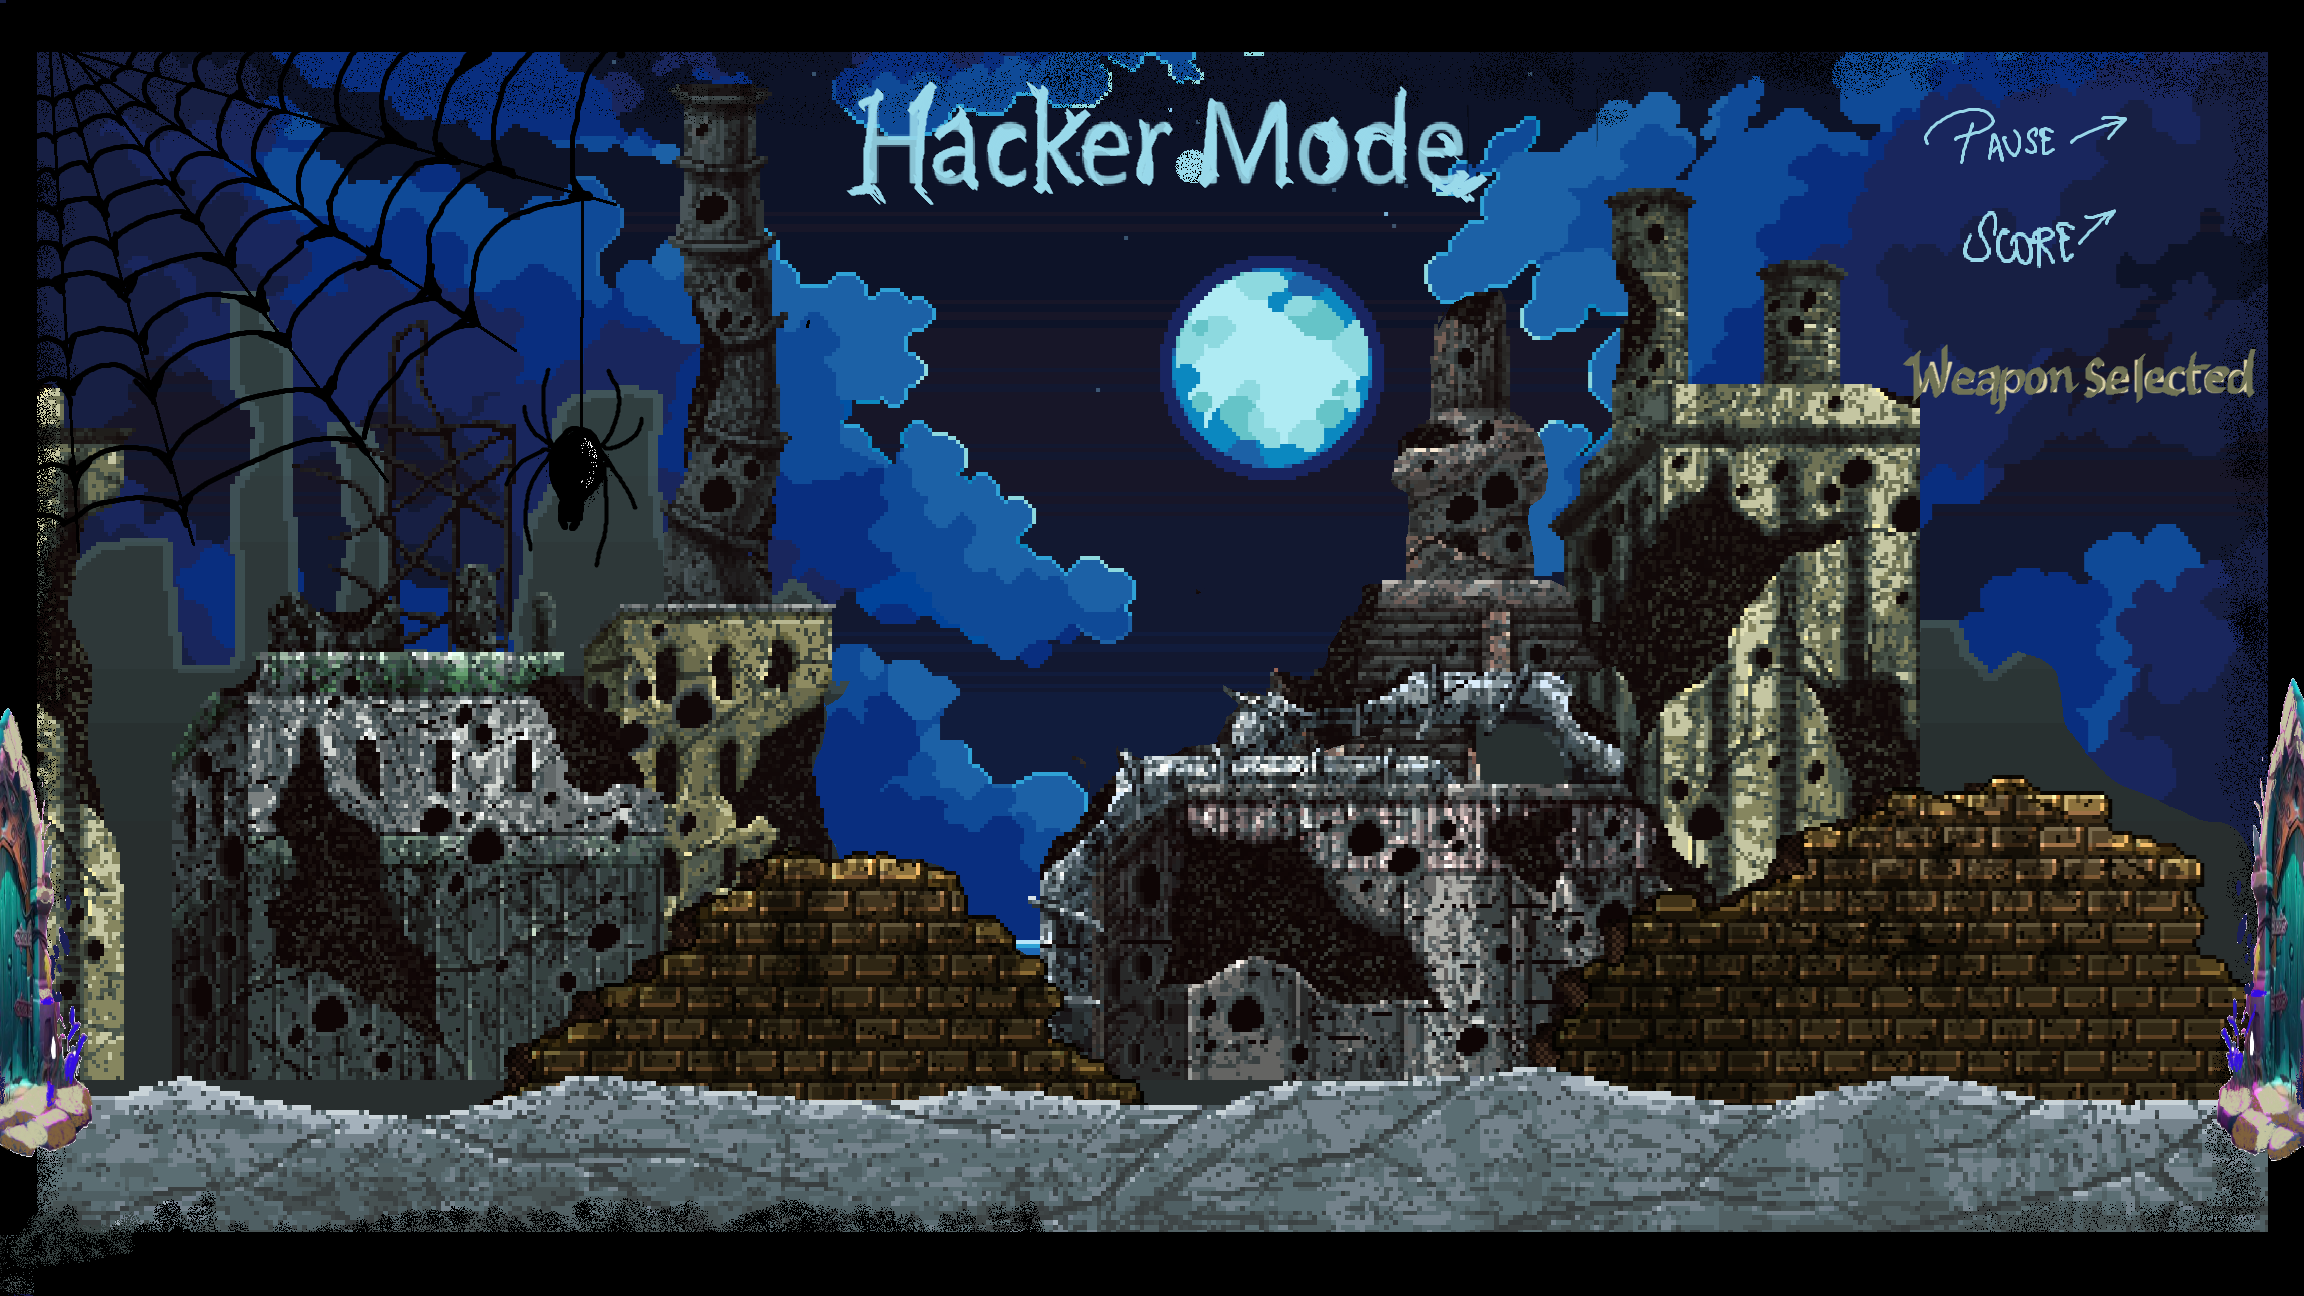
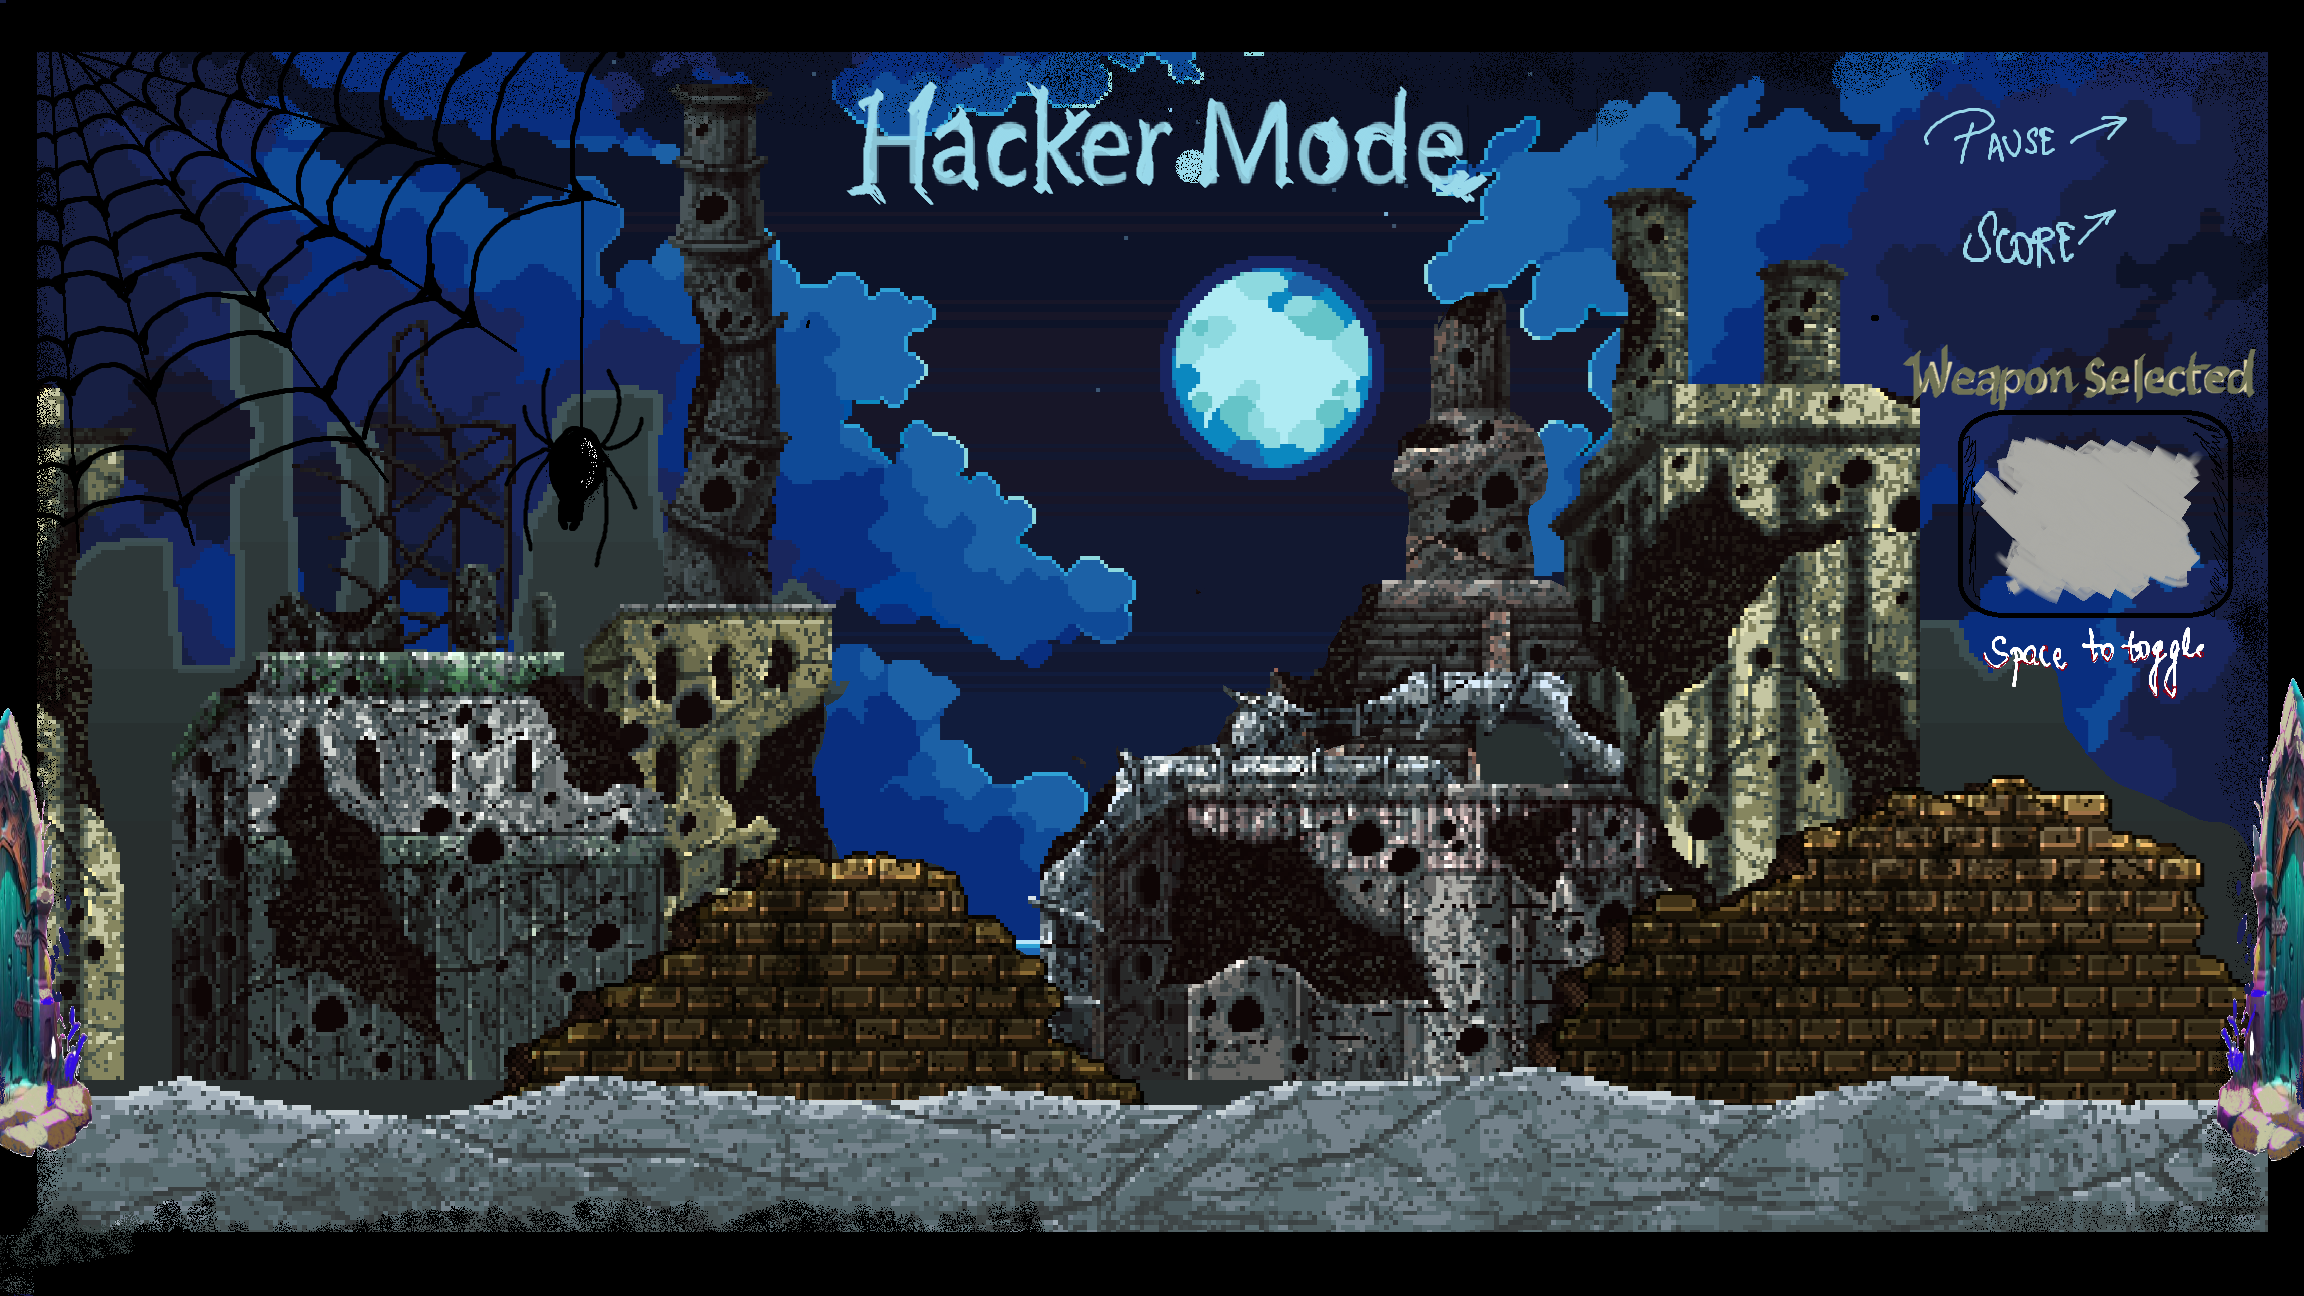
Commit changes

Changed region(s): [[0.8438, 0.3086, 0.9688, 0.5247]]

diff --git a/Hacker mode/canvas.js b/Hacker mode/canvas.js
@@ -2,6 +2,12 @@ var canvas=document.getElementById('canvas');
 canvas.height=document.documentElement.clientHeight;
 canvas.width=document.documentElement.clientWidth;
 c=canvas.getContext('2d');
+
+var canvas2=document.getElementById('canvas2');
+canvas2.height=document.documentElement.clientHeight;
+canvas2.width=document.documentElement.clientWidth;
+c2=canvas2.getContext('2d');
+
 var hero;
 var zombies;var zombie1;
 var keys_pressed;
@@ -24,6 +30,10 @@ var shield_coordinates;
 const backgroundImage = new Image();
 var is_game_over=false;
 var toggle_weapon;
+var gunImage;
+var gun;
+var mouse1;
+var weapon_selected;
 
 function initializeLocalStorage() {
     if (!localStorage.getItem('score1')) {
@@ -147,6 +157,18 @@ function check_bullet_zombie_collision(bullet,zombie){
 
 
 function init(){
+    weapon_selected=new Image();
+    mouse1 = {
+        x: 0,
+        y: 0
+    };
+    gunImage=new Image();
+    gun = {
+      x: canvas2.width / 2,
+       y: canvas2.height / 2,
+       width: 72,
+       height: 73 
+    };
     blocks=[];
     pellets=[];
     bullets=[];
@@ -272,7 +294,6 @@ class Blocks{
     create(){
         this.image.src='../images/block.png';
         c.drawImage(this.image,0,0,249,267,this.coordinate.x,this.coordinate.y,this.width,this.height);
-        c.strokeRect(this.coordinate.x,this.coordinate.y,this.width,this.height);
     }
     translate(){
             var j=check_below(this,'block');
@@ -296,8 +317,8 @@ class Pellet{
     constructor(){
         this.radius=10;
         this.coordinate={
-            x:hero.coordinate.x+(hero.width-this.radius*2)/2,
-            y:hero.coordinate.y+(hero.height-this.radius*2)/2
+            x:gun.x,
+            y:gun.y
         }
         this.velocity={
             x:0,
@@ -734,13 +755,17 @@ window.addEventListener('keyup',({keyCode})=>{
         }
         case 32:{
             console.log('toggle weapon');
-            if (toggle_weapon=='bomb'){toggle_weapon='ice_gun'}
-            else if (toggle_weapon=='ice_gun'){toggle_weapon='bomb';}
+            if (toggle_weapon=='bomb'){toggle_weapon='ice_gun';document.getElementById('weapon1').src='../images/gun_left.png';}
+            else if (toggle_weapon=='ice_gun'){toggle_weapon='bomb';document.getElementById('weapon1').src='../Sprite/Bomb1.png';}
         }
     }
 })
+canvas2.addEventListener('mousemove', function(event) {
+    mouse1.x = event.clientX;
+    mouse1.y = event.clientY;
+});
 
-canvas.addEventListener('click',function(item){
+canvas2.addEventListener('click',function(item){
     mouse.x=item.clientX;
     mouse.y=item.clientY;
     if (toggle_weapon=='bomb'){
@@ -824,6 +849,7 @@ function animate(){
     
     c.clearRect(0,0,canvas.width,canvas.height);
     c.drawImage(backgroundImage,0,0,canvas.width,canvas.height);
+    //Weapon Selected
     //Fort
     fort.strength_build();
     //Blocks
@@ -837,6 +863,7 @@ function animate(){
     hero.jump();
     hero.translate();
     hero.shield();
+    
 
     //Bomb
     bullets.forEach((bullet,index)=>{
@@ -872,7 +899,39 @@ function animate(){
             pellet.fire();
         }
         });
-
+    //Gun
+    if (toggle_weapon=='ice_gun'){
+        c2.clearRect(0, 0, canvas2.width, canvas2.height);
+            if (hero.direction=='right'){
+                gun.x=hero.coordinate.x+hero.width;
+                gun.y=hero.coordinate.y+hero.height/2;
+            }
+            else{
+                gun.x=hero.coordinate.x;
+                gun.y=hero.coordinate.y+hero.height/2;
+            }
+            var dx = mouse1.x - gun.x;
+            if (dx>=0){gunImage.src='../images/gun_right.png';
+                hero.direction='right';
+            }
+            else{gunImage.src='../images/gun_left.png';
+                hero.direction='left';
+            }
+            var dy = mouse1.y - gun.y;
+            var angle = Math.atan2(dy, dx);
+            c2.save();
+            c2.translate(gun.x, gun.y);
+            if (dx>=0){c2.rotate(angle);}
+            else{angle += Math.PI;c2.rotate(angle);}
+            
+            c2.drawImage(gunImage, -gun.width / 2, -gun.height / 2, gun.width, gun.height);
+            console.log('drawn');
+            c2.restore();
+    }
+    else{
+        c2.clearRect(0, 0, canvas2.width, canvas2.height);
+    }
+    
 
         //Zombies
         zombies.forEach((zombie)=>{

diff --git a/Hacker mode/style.css b/Hacker mode/style.css
@@ -1,6 +1,11 @@
 #game{
     position:relative;
 }
+#canvas,#canvas2 {
+    position: absolute;
+    top: 0;
+    left: 0;
+}
 #pause{
     width:5vw;
     height:5vw;
@@ -11,8 +16,20 @@
     background-size: cover;
     border-radius: 50%;
 }
+#weapon{
+    position: fixed;
+    top:33%;
+    left:87%;
+    
+    width: 50px;
+    height:50px;
+}
+#weapon1{
+    width:100px;
+    height:100px;
+}
 #gamepause,#endOfGame{
-  position: absolute; 
+  position: fixed; 
   top: 50%; 
   left: 50%; 
   width:30vw;

diff --git a/Hacker mode/index.html b/Hacker mode/index.html
@@ -10,11 +10,13 @@
 <body>
     <div id="game">
         <canvas id="canvas"></canvas>
+        <canvas id="canvas2"></canvas>
         <button id="pause"></button>
         <div id="gamepause">
             <button id="play"></button>
             <button id="replay"></button>
         </div>
+        <div id="weapon"><img id="weapon1" src="../Sprite/Bomb1.png"></div>
         <div id="endOfGame"><p id="p1">Game Over</p>
             <button id="replay2"></button>
             <p id='p2'>Leader Board</p>
